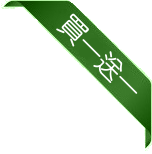
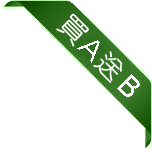
改錯字+hibernate新增mysql driver 修正優惠商品頁面的IE顯示錯誤、買A送B圖檔錯誤

Changed region(s): [[0.7632, 0.4675, 0.9211, 0.6494], [0.5, 0.2338, 0.6579, 0.4156]]

diff --git a/WineProject/src/product/controller/BuyWine.java b/WineProject/src/product/controller/BuyWine.java
@@ -41,12 +41,12 @@ public class BuyWine extends HttpServlet {
 
 		request.setCharacterEncoding("UTF-8");
 		HttpSession session = request.getSession(false);
-		if (session == null) { // 使用逾時
-			request.setAttribute("Errors", "使用逾時，請重新登入");
-			RequestDispatcher rd = request.getRequestDispatcher("#");
-			rd.forward(request, response);
-			return;
-		}
+//		if (session == null) { // 使用逾時
+//			request.setAttribute("Errors", "使用逾時，請重新登入");
+//			RequestDispatcher rd = request.getRequestDispatcher("#");
+//			rd.forward(request, response);
+//			return;
+//		}
 
 		ShipingCart cart = (ShipingCart) session.getAttribute("ShoppingCart");
 		if (cart == null) {
@@ -72,10 +72,9 @@ public class BuyWine extends HttpServlet {
 		if (sales.equals("A")) {
 			// 買A送B
 			// 將所選的商品加入購物車
-			shoppingProduct.setSubTatle(shoppingProduct.getProductPrice());
 			shoppingProduct.setProductNumber(productNumber);
 
-			shoppingProduct.setSubTatle(productNumber * price);
+			shoppingProduct.setSubTotal(productNumber * price);
 			cart.addToCart(productNo, shoppingProduct);
 			// 找出對應的B商品
 			AbDAO abdao = new AbDAO();
@@ -89,7 +88,7 @@ public class BuyWine extends HttpServlet {
 			shoppingProductB.setProductNo(productB.getP_no());
 			shoppingProductB.setProductNumber(productNumber);
 			shoppingProductB.setProductPrice(productB.getP_price());
-			shoppingProductB.setSubTatle(0);
+			shoppingProductB.setSubTotal(0);
 			cart.addToCart(shoppingProductB.getProductNo(), shoppingProductB);
 		} else if (sales.equals("half")) { // 第2件半價
 			Map<Integer, ShoppingProduct> old = cart.getContent();
@@ -99,7 +98,7 @@ public class BuyWine extends HttpServlet {
 			int quotient = num / 2;
 			if (OldShoppingProduct == null) {
 
-				shoppingProduct.setSubTatle((price * num)
+				shoppingProduct.setSubTotal((price * num)
 						- (quotient * price / 2));
 				cart.addToCart(shoppingProduct.getProductNo(), shoppingProduct);
 
@@ -110,9 +109,9 @@ public class BuyWine extends HttpServlet {
 				System.out.println(quotient);
 				System.out.println((price * num) - (quotient * price / 2));
 				System.out.println(OldShoppingProduct.getProductPrice());
-				shoppingProduct.setSubTatle((price * num)
+				shoppingProduct.setSubTotal((price * num)
 						- (quotient * price / 2)
-						- OldShoppingProduct.getSubTatle());
+						- OldShoppingProduct.getSubTotal());
 				cart.addToCart(shoppingProduct.getProductNo(), shoppingProduct);
 
 			}
@@ -136,13 +135,13 @@ public class BuyWine extends HttpServlet {
 		else {
 			// 沒有優惠OR B區商品
 			shoppingProduct.setProductNumber(productNumber);
-			shoppingProduct.setSubTatle(productNumber * price);
+			shoppingProduct.setSubTotal(productNumber * price);
 			cart.addToCart(shoppingProduct.getProductNo(), shoppingProduct);
 
 		}
 		// 計算金額
 
-		response.sendRedirect("http://localhost:8081/WineProject/product/DisplayProducts?action=getAll&pageNo=1");
+		response.sendRedirect("http://localhost:8080/WineProject/product/DisplayProducts?action=getAll&pageNo=1");
 
 	}
 

diff --git a/WineProject/src/shoppingCart/controller/ShipingCart.java b/WineProject/src/shoppingCart/controller/ShipingCart.java
@@ -33,7 +33,7 @@ private int bNumber=0;
 			OldShoppingProduct
 					.setProductNumber(shoppingProduct.getProductNumber()
 							+ OldShoppingProduct.getProductNumber());
-			OldShoppingProduct.setSubTatle(shoppingProduct.getSubTatle()+OldShoppingProduct.getSubTatle());
+			OldShoppingProduct.setSubTotal(shoppingProduct.getSubTotal()+OldShoppingProduct.getSubTotal());
 	
 			// cart.put(bookID, oib);
 		}
@@ -45,7 +45,7 @@ private int bNumber=0;
 		Integer total = 0;
 		Set<Integer> set = cart.keySet();
 		for (Integer n : set) {
-			Integer price =  (Integer)cart.get(n).getSubTatle();
+			Integer price =  (Integer)cart.get(n).getSubTotal();
 			total += price;
 		}
 		return total;

diff --git a/WineProject/src/shoppingCart/model/ShoppingProduct.java b/WineProject/src/shoppingCart/model/ShoppingProduct.java
@@ -5,14 +5,14 @@ public class ShoppingProduct {
 	private String productName;
 	private Integer productPrice=0;
 	private Integer productNumber=0;
-	private Integer subTatle=0;
+	private Integer SubTotal=0;
 	private String saleType;
 	private Integer salesNumber=0;
-	public Integer getSubTatle() {
-		return subTatle;
+	public Integer getSubTotal() {
+		return SubTotal;
 	}
-	public void setSubTatle(Integer subTatle) {
-		this.subTatle = subTatle;
+	public void setSubTotal(Integer SubTotal) {
+		this.SubTotal = SubTotal;
 	}
 	public Integer getProductNo() {
 		return productNo;
